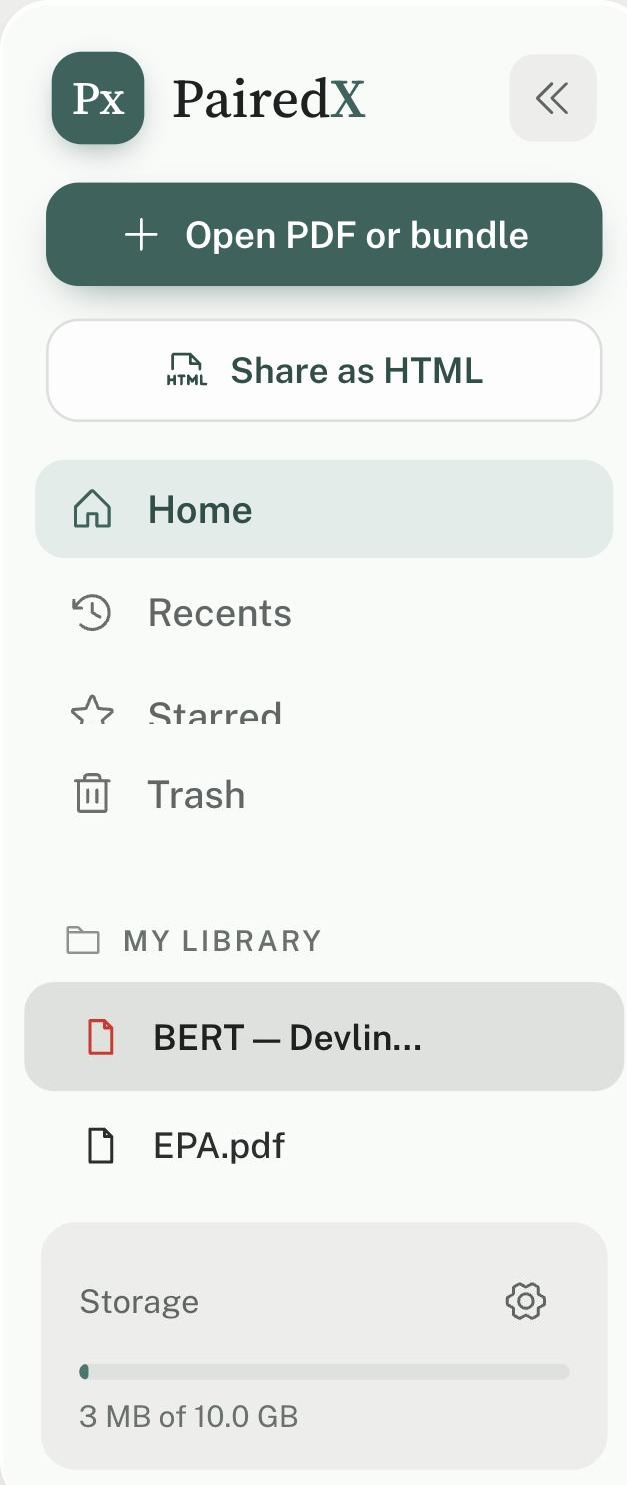
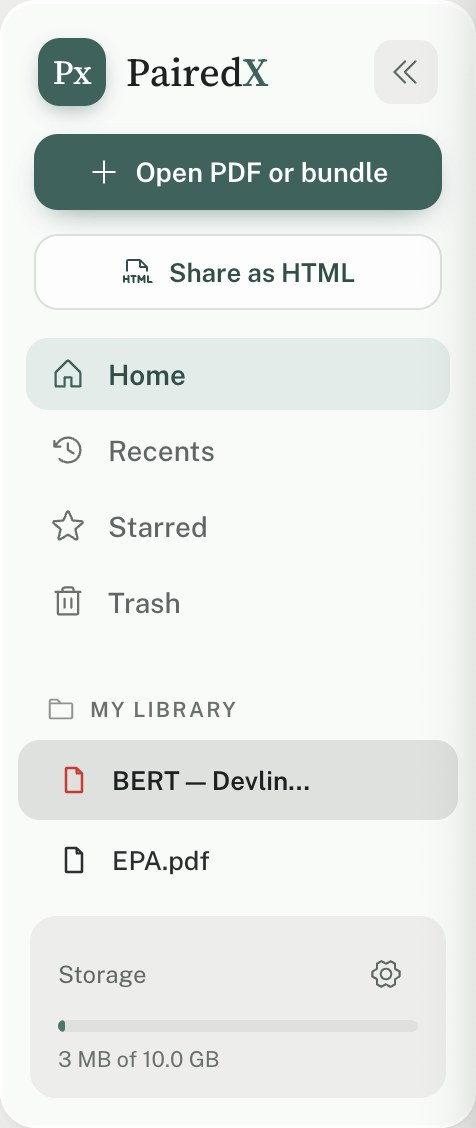
Widen the OCR figure, right-size the library shot, drop the annotate lead
- index.html: .ocr-frame 70% -> 84% of the wrap. At 70% the whole-workspace
  shot rendered 756px wide and the banner copy inside it was too small to read.

- features.html: the library shot is the sidebar panel itself, not a crop out
  of a larger surface, so the shared .row .shot.sm width of 330px rendered its
  chrome about 1.25x life size — and .shot.tall's 430px cap then sliced the nav
  list through the middle of "Starred". #library .shot now caps at 240px with no
  height clip and no fade, so it reads at roughly 1:1 and shows the whole panel.

- feat-library.jpg reshot: the old capture had a stitching seam that ate the
  bottom half of the "Starred" row. Reshot in one pass at 476x1128, framed to
  the same 627:1485 proportions so nothing about the layout changes.

- features.html: removed the "Read & annotate" lead paragraph. QA FEAT-043
  asserted that copy, so it is updated to match rather than left contradicting
  the page.

Claude-Session: https://claude.ai/code/session_01G2DRXqN5rS1SDV4jNE5VGM

diff --git a/features.html b/features.html
@@ -145,6 +145,11 @@ header .enter:hover{background:var(--blue-2);text-decoration:none}
 .row .shot.sm{max-width:330px}
 .shot.tall{max-height:430px;position:relative}
 .shot.tall::after{content:"";position:absolute;left:0;right:0;bottom:0;height:62px;background:linear-gradient(to bottom,transparent,var(--card))}
+/* The library shot is the sidebar panel, not a crop out of a bigger surface, so
+   at 330px its chrome rendered ~1.25x life size and the 430px cap sliced the
+   nav list through the middle of "Starred". Show it whole, near 1:1. */
+#library .shot{max-width:240px;max-height:none}
+#library .shot::after{content:none}
 .shot.pad{padding:12px;background:var(--paper)}
 .shot.pad img{border-radius:9px;border:1px solid var(--line)}
 /* bands: full-app / full-screen screenshots, shown large */
@@ -278,7 +283,6 @@ footer nav{margin-left:auto;display:flex;gap:18px}
     <div class="copy">
       <div class="eyebrow">Read &amp; annotate</div>
       <h2>Highlight text or box a figure.</h2>
-      <p class="lead">Select text for a quick <b>Highlight · Note · Ask&nbsp;AI</b> popover, drop a point comment anywhere, or screenshot a figure/equation to ask about it directly.</p>
       <div class="chips"><span>Highlight</span><span>Comment</span><span>Screenshot a region</span><span>Continuous or single page</span><span>Find in document</span></div>
     </div>
     <div class="shot pad"><img src="docs/screenshots/03-toolbar.png" alt="The reader toolbar: select, highlight, comment, screenshot tools"></div>

diff --git a/index.html b/index.html
@@ -228,7 +228,7 @@ strong{color:var(--ink-strong);font-weight:var(--weight-semibold)}
 /* The shot is the whole workspace now (a landscape 2.09:1), so the frame no
    longer needs the max-height that used to hard-clip the tall reader crop
    mid-sentence. 70% of the wrap keeps it from dominating the section. */
-.ocr-frame{width:70%;margin:0 auto;border-radius:var(--radius-2xl);overflow:hidden;border:1px solid var(--border-subtle);box-shadow:var(--shadow-xl);background:var(--surface-card)}
+.ocr-frame{width:84%;margin:0 auto;border-radius:var(--radius-2xl);overflow:hidden;border:1px solid var(--border-subtle);box-shadow:var(--shadow-xl);background:var(--surface-card)}
 .ocr-frame img{width:100%;height:auto;display:block}
 
 /* ------------------------------ privacy -------------------------------- */

diff --git a/docs/qa/02-features-page.md b/docs/qa/02-features-page.md
@@ -470,9 +470,9 @@
 
 - **Pre:** Navigate to `#annotate`.
 - **Steps:**
-  1. Read eyebrow, heading and lead.
-- **Expect:** Eyebrow `"Read & annotate"`; heading `"Highlight text or box a figure."`; lead `"Select text for a quick Highlight · Note · Ask AI popover, drop a point comment anywhere, or screenshot a figure/equation to ask about it directly."` with "Highlight · Note · Ask AI" bold and a non-breaking space inside "Ask AI".
-- **Watch:** The `&nbsp;` in "Ask&nbsp;AI" is lost and "Ask" / "AI" break across two lines mid-phrase.
+  1. Read eyebrow and heading.
+- **Expect:** Eyebrow `"Read & annotate"`; heading `"Highlight text or box a figure."`. This row has **no** lead paragraph — the chip row follows the heading directly.
+- **Watch:** A lead paragraph reappearing here, or the chips crowding the heading now that nothing sits between them.
 
 ### FEAT-044 - Chip row
 **P1** * Copy * `features.html:157`
